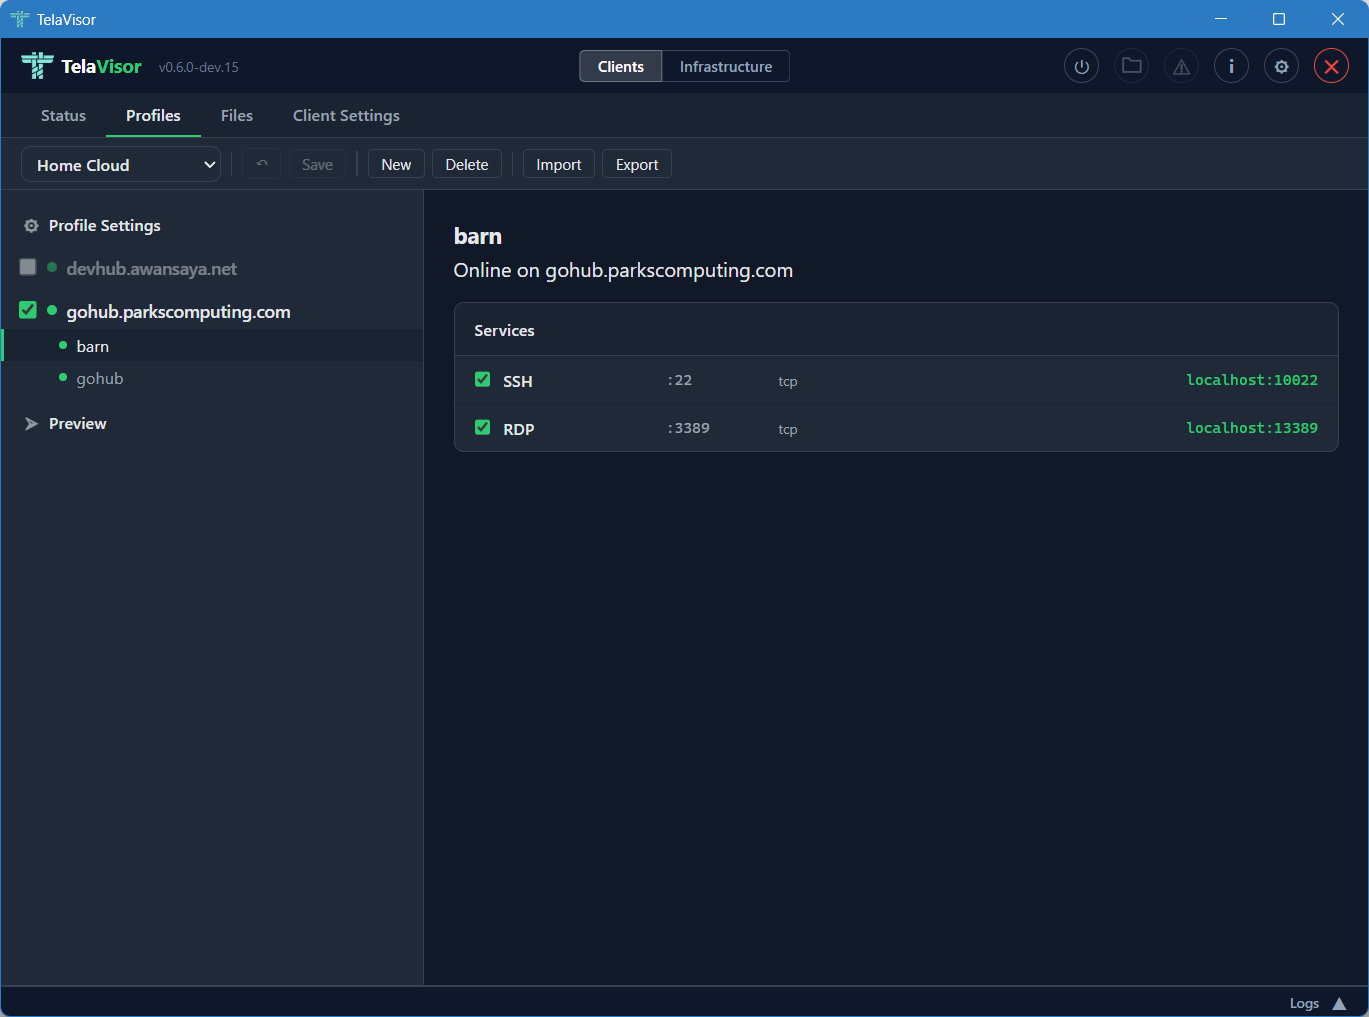
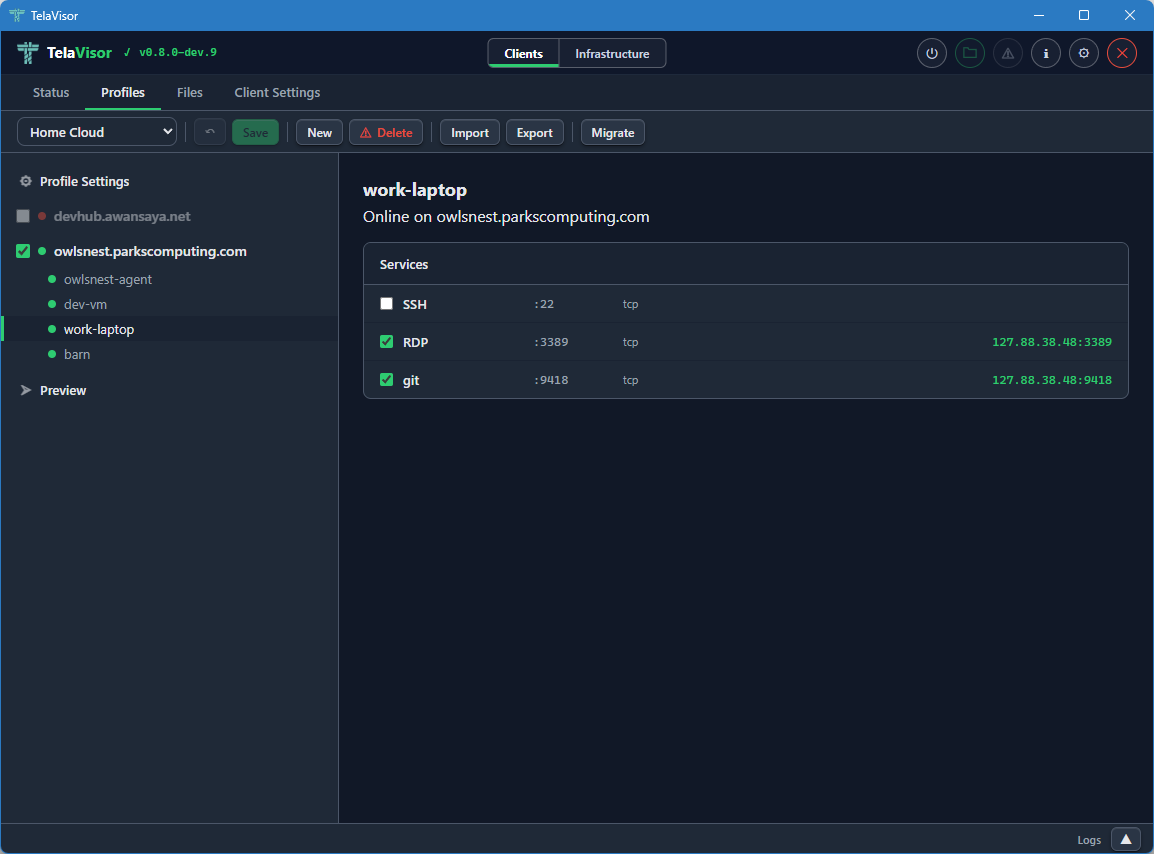
chore: updated TV screenshots for loopback addressing, Wails bindings
Replace three screenshots showing localhost:port with current UI
showing 127.88.x.x:realport addresses. Update generated Wails
bindings to include LoopbackAddr.

diff --git a/cmd/telagui/frontend/wailsjs/go/main/App.js b/cmd/telagui/frontend/wailsjs/go/main/App.js
@@ -350,6 +350,10 @@ export function LogAdminGET(arg1, arg2) {
   return window['go']['main']['App']['LogAdminGET'](arg1, arg2);
 }
 
+export function LoopbackAddr(arg1, arg2) {
+  return window['go']['main']['App']['LoopbackAddr'](arg1, arg2);
+}
+
 export function MigrateAllProfiles() {
   return window['go']['main']['App']['MigrateAllProfiles']();
 }

diff --git a/cmd/telagui/frontend/wailsjs/go/main/App.d.ts b/cmd/telagui/frontend/wailsjs/go/main/App.d.ts
@@ -176,6 +176,8 @@ export function LoadProfile():Promise<Array<main.ProfileConnection>>;
 
 export function LogAdminGET(arg1:string,arg2:string):Promise<void>;
 
+export function LoopbackAddr(arg1:string,arg2:string):Promise<string>;
+
 export function MigrateAllProfiles():Promise<string>;
 
 export function OpenFileDialog():Promise<string>;
